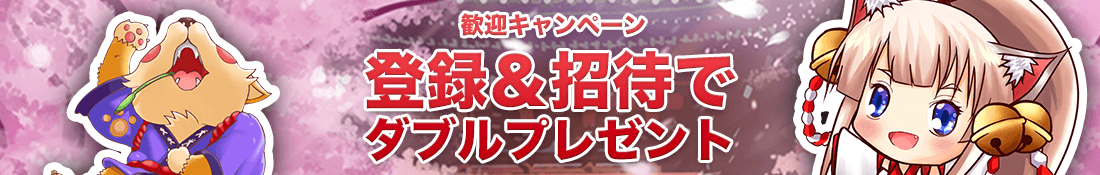
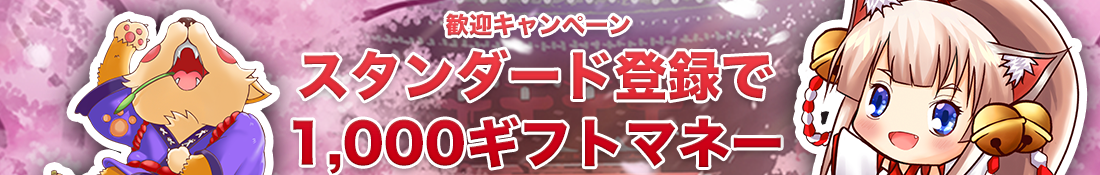
活動更新

diff --git a/Activity/Act002/CenterPage/index.html b/Activity/Act002/CenterPage/index.html
@@ -52,7 +52,7 @@
 <div class="act-wrapper">
 	<section class="section-wrap">
 
-	<p class="act-title">新しい友達大歓迎！新規登録の方にも、友達を招待した方にも、この狛犬大吉が歓迎ギフトマネーをプレゼントするぞ！</p>
+	<p class="act-title">新しい友達大歓迎！スタンダード登録を完了すれば、この狛犬大吉が歓迎ギフトマネーをプレゼントするぞ！</p>
 	<!--活動期間-->
 	<h3>【 キャンペーン期間 】</h3>
 	<p>今からスタート</p>
@@ -63,23 +63,22 @@
 
 	<!--活動內容-->
 	<h3>【 キャンペーン内容 】</h3>
-	<p class="act-subtitle">キャンペーン1～登録プレゼント</p>
-	<p>登録完了すれば、<b>500新規登録ギフトマネー</b>を受け取ることができます。</p>
+	<!-- <p class="act-subtitle">キャンペーン1～登録プレゼント</p> -->
+	<p>マハラジャのスタンダード会員になれば、1,000新規登録ギフトマネーがもらえます。</p>
 
-	<p class="act-subtitle">キャンペーン2 ～招待プレゼント</p>
+	<!-- <p class="act-subtitle">キャンペーン2 ～招待プレゼント</p>
 	<p>友達を招待し、招待された友達が登録完了後『初回』入金をした場合、招待した方にも<b>500招待ギフトマネー</b>を受け取ることができます。</p>
 	<p style="color: #AC580B;">例：大吉に招待された四葉が、登録の際に大吉の招待コードを入力し登録完了すれば、四葉が初回入金を済ました際大吉も500招待ギフトマネーを受け取ることができます。</p>
-	<span style="margin-bottom: 0.875rem;"></span>
+	<span style="margin-bottom: 0.875rem;"></span> -->
 
 	<!--注意事項-->
 	<h3 class="section-wrap-title">【 注意事項 】</h3>
-	<p class="act-notice">1. 受け取り期間は新規登録ギフトマネー、招待ギフトマネーとも条件クリアから<span class="mark-red">90日間</span>です。受け取った後使用期限がなく、自由に遊んでいただけます。</p>
-	<p class="act-notice">2. 新規登録ギフトマネーは本金と一緒に使うことができます。出金制限のローリングはギフトマネーの20倍が追加されます。</p>
-	<p class="act-notice">3. 招待ギフトマネーは本金と一緒に使うことができます。招待した方はギフトマネーの1倍出金制限のローリングに追加されます。</p>
-	<p class="act-notice">4. 入金したOCoinとギフトマネーは各アカウントが所有し、ほかのアカウントと共有、または移行することはできません。</p>
-	<p class="act-notice">5. 同一アカウント・電話番号・IPアドレス・共有PC・ネット環境につき、一回のみ参加できます。</p>
-	<p class="act-notice">6. 公正なゲーム環境を確保するため、不正行為でゲームしたり、ほかの会員を妨害したりし、ゲーム規約に違反したことが確認された場合、該当アカウントを凍結させていただきます。</p>
- 	<p class="act-notice">7. マハラジャはキャンペーンの修正およびキャンセルする権利を留保します。</p>
+	<p class="act-notice">1. <b>新規登録ギフトマネー</b>の受け取り期間は、条件クリアから90日間です。受け取った後使用期限がなく、自由に遊んでいただけます。</p>
+	<p class="act-notice">2. <b>新規登録ギフトマネー</b>は本金と一緒に使うことができます。出金制限のローリングはギフトマネーの20倍が追加されます。</p>
+	<p class="act-notice">3. 入金したOCoinとギフトマネーは各アカウントが所有し、ほかのアカウントと共有、または移行することはできません。</p>
+	<p class="act-notice">4. 同一アカウント・電話番号・IPアドレス・共有PC・ネット環境につき、一回のみ参加できます。</p>
+	<p class="act-notice">5. 公正なゲーム環境を確保するため、不正行為でゲームしたり、ほかの会員を妨害したりし、ゲーム規約に違反したことが確認された場合、該当アカウントを凍結させていただきます。 </p>
+	<p class="act-notice">6. マハラジャはキャンペーンの修正およびキャンセルする権利を留保します。</p>
 	</section>
 
 </div>

diff --git a/Guide/prize.html b/Guide/prize.html
@@ -259,7 +259,7 @@
 		</table>
 		<h3 class="cash-wrap-title"><img src="img/cash-title-img.png" class="cash-title-img">ボーナス利用規約</h3>
 		<p>1. 賭け条件が満たされる前に入金または出金が行われた場合、ボーナスは没収されます。</p>
-		<p>2. ボーナス使用禁止のゲーム：スクラッチカード、プログレッシブジャックポットゲーム、プログレッシブ機能のあるスロットゲーム、 シック・ボー、プントバンコ、ブラッドサカーズ、ブラッドサッカーズ2Ⅱ、デッドオアアライブ2、デッドオアアライブ、ミニルーレット、キノ、ブラックジャック、スポーツベット、Ysport大相撲。</p>
+		<p>2. ボーナス使用禁止のゲーム：スクラッチカード、プログレッシブジャックポットゲーム、プログレッシブ機能のあるスロットゲーム、 シック・ボー、プントバンコ、ブラッドサカーズ、ブラッドサッカーズ2Ⅱ、デッドオアアライブ2、デッドオアアライブ、ミニルーレット、キノ、ビデオブラックジャック、スポーツベット、Ysport大相撲。</p>
 		<p>3. 一度に利用できるボーナスは1つのみです。</p>
 		<p>4. 以下のような行為はボーナスの不正利用とみなされ、勝利金の没収やアカウントの閉鎖につながる可能性があります。</p>
 		<p style="margin-right: 0px;"><span class="dot">•</span> イコールマージンベット、ゼロリスクベット、ローマージンベット</p>
@@ -352,7 +352,7 @@
 
 		<h3 class="cash-wrap-title-phone"><img src="img/cash-title-img.png" class="cash-title-img-phone">ボーナス利用規約</h3>
 		<p>1. 賭け条件が満たされる前に入金または出金が行われた場合、ボーナスは没収されます。</p>
-		<p>2. ボーナス使用禁止のゲーム：スクラッチカード、プログレッシブジャックポットゲーム、プログレッシブ機能のあるスロットゲーム、 シック・ボー、プントバンコ、ブラッドサカーズ、ブラッドサッカーズ2Ⅱ、デッドオアアライブ2、デッドオアアライブ、ミニルーレット、キノ、ブラックジャック、スポーツベット、Ysport大相撲。</p>
+		<p>2. ボーナス使用禁止のゲーム：スクラッチカード、プログレッシブジャックポットゲーム、プログレッシブ機能のあるスロットゲーム、 シック・ボー、プントバンコ、ブラッドサカーズ、ブラッドサッカーズ2Ⅱ、デッドオアアライブ2、デッドオアアライブ、ミニルーレット、キノ、ビデオブラックジャック、スポーツベット、Ysport大相撲。</p>
 		<p>3. 一度に利用できるボーナスは1つのみです。</p>
 		<p>4. 以下のような行為はボーナスの不正利用とみなされ、勝利金の没収やアカウントの閉鎖につながる可能性があります。</p>
 		<p style="margin-right: 0px;"><span class="dot">•</span> イコールマージンベット、ゼロリスクベット、ローマージンベット</p>

diff --git a/Activity/mahaEvent/11month.html b/Activity/mahaEvent/11month.html
@@ -44,7 +44,7 @@
 	<!--注意事項-->
 	<h3 class="section-wrap-title">【 注意事項 】</h3>
 	<p class="act-notice"></p>1. キャンペーン期間中、マハラジャで初入金したアカウントは11月の初入金還元に参加できませんが、二回目に参加できます。</p>
-	<p class="act-notice"></p>2. 2. 受け取った後使用期限がなく、「<span class="mark-red">ボーナス利用規約</span>」を守れば、自由に遊んでいただけます。</p>
+	<p class="act-notice"></p>2. キャンペーンボーナスは<span class="mark-red">OCoinが100以下</span>になって、初めて受け取ることができます。受け取り期間は入金完了から90日間です。受け取った後使用期限がなく、「<span class="mark-red">ボーナス利用規約</span>」を守れば、自由に遊んでいただけます。</p>
 	<p class="act-notice"></p>3. 入金する際に、出金制限のローリングが追加され、倍率は入金方法により異なります。入金したOcoin本金のローリングは最低1.5倍から8倍までとなり、ボーナスは受け取る際に20倍追加されます。</p>
 	<p class="act-notice"></p>4. 出金すると、受け取っていないキャンペーンボーナスはすべてなくなります。受け取っていないボーナスがあるかどうかは「ボーナス受取り」で確認できます。</p>
 	<p class="act-notice"></p>5. 入金したOCoinとボーナスは各アカウントが所有し、ほかのアカウントと共有、または移行することはできません。</p>
